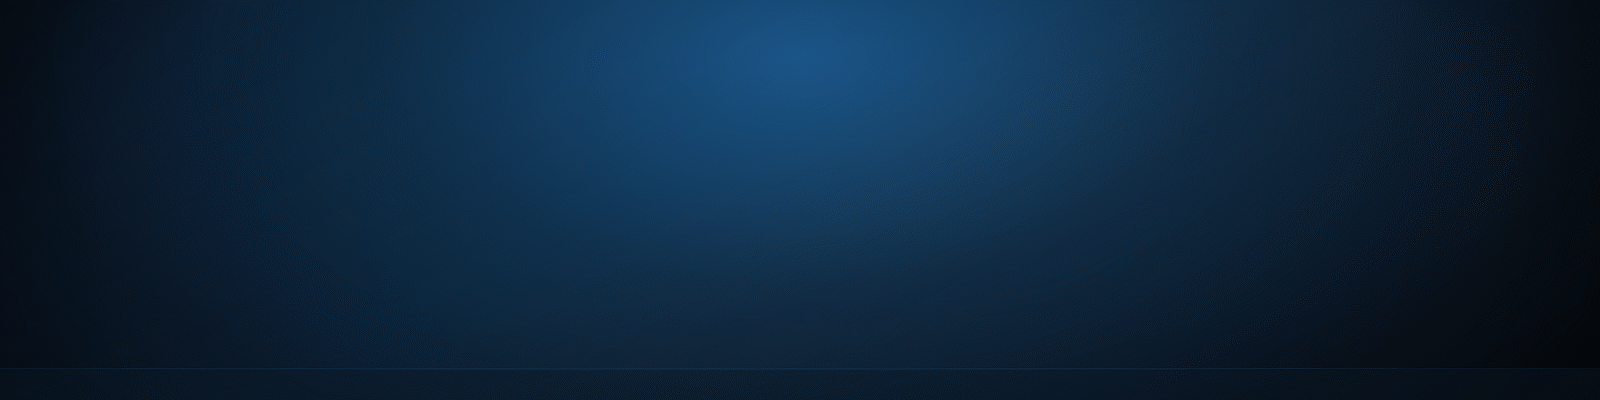
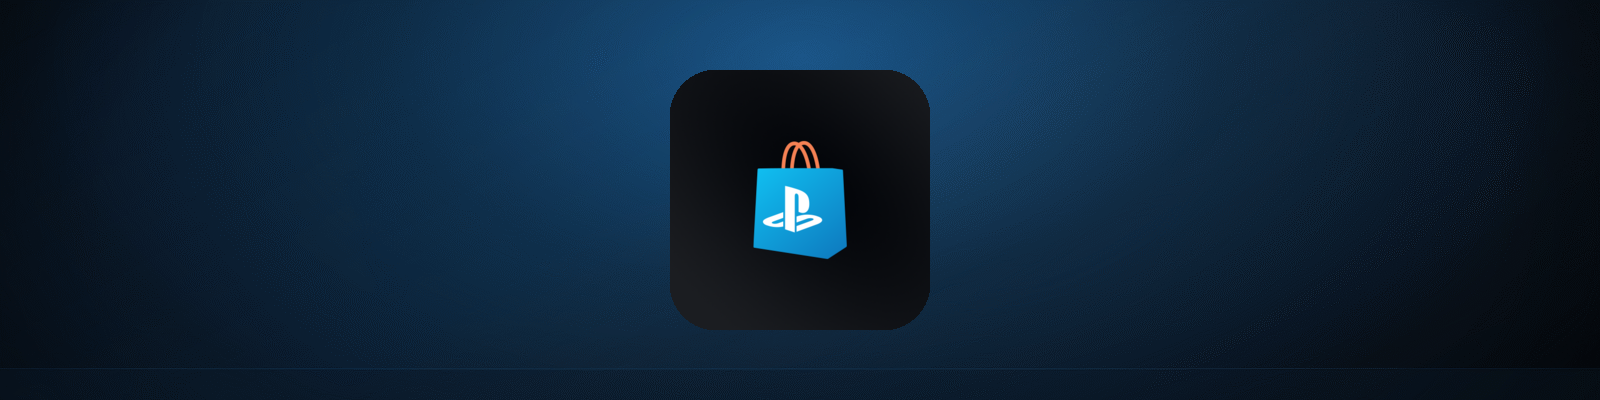
Edited README.md

Changed region(s): [[0.4062, 0.15, 0.5938, 0.84]]

diff --git a/tools/gen_brand_assets.py b/tools/gen_brand_assets.py
@@ -37,6 +37,7 @@ import os
 import shutil
 import subprocess
 import sys
+import tempfile
 
 ROOT = os.path.abspath(os.path.join(os.path.dirname(__file__), ".."))
 MASTER = os.path.join(ROOT, "assets", "home-photo.png")
@@ -239,6 +240,48 @@ def render_svg(svg, dest, width, height):
                                check=True, capture_output=True).stdout)
 
 
+def decorate_banner():
+    """Put the tile icon (rounded like an app tile) on the README banner."""
+    banner = os.path.join(ROOT, "docs", "img", "banner.png")
+    icon = master_path("icon")
+    if not (os.path.isfile(banner) and os.path.isfile(icon)):
+        return
+    size = 260
+    radius = int(size * 0.18)
+    if have_pillow():
+        from PIL import Image, ImageChops, ImageDraw
+
+        with Image.open(banner) as b, Image.open(icon) as ic:
+            base = b.convert("RGBA")
+            art = ic.convert("RGBA").resize((size, size), Image.LANCZOS)
+            mask = Image.new("L", (size, size), 0)
+            ImageDraw.Draw(mask).rounded_rectangle(
+                [0, 0, size - 1, size - 1], radius=radius, fill=255)
+            art.putalpha(ImageChops.multiply(art.getchannel("A"), mask))
+            base.alpha_composite(
+                art, ((base.width - size) // 2, (base.height - size) // 2))
+            base.convert("RGB").save(banner, "PNG", optimize=True)
+        return
+
+    tool = magick_command()
+    if not tool:
+        return
+    with tempfile.TemporaryDirectory(prefix="wkal-banner-") as tmp:
+        mask = os.path.join(tmp, "mask.png")
+        rounded = os.path.join(tmp, "icon.png")
+        subprocess.run(
+            [tool, "-size", f"{size}x{size}", "xc:none", "-fill", "white",
+             "-draw", f"roundrectangle 0,0,{size - 1},{size - 1},{radius},{radius}", mask],
+            check=True, capture_output=True)
+        subprocess.run(
+            [tool, icon + "[0]", "-resize", f"{size}x{size}", mask,
+             "-alpha", "off", "-compose", "CopyOpacity", "-composite", rounded],
+            check=True, capture_output=True)
+        subprocess.run(
+            [tool, banner, rounded, "-gravity", "center", "-composite", banner],
+            check=True, capture_output=True)
+
+
 def main(argv=None):
     parser = argparse.ArgumentParser(
         description=__doc__, formatter_class=argparse.RawDescriptionHelpFormatter)
@@ -284,6 +327,8 @@ def main(argv=None):
         else:
             dest = render_with_magick(src, rel_path, width, height)
         print(f"  {rel_path} ({width}x{height}, {os.path.getsize(dest)} bytes, {kind})")
+
+    decorate_banner()
 
     icon_src = master_path("icon")
     ico = ico_with_pillow(icon_src) if use_pillow else ico_with_magick(icon_src)

diff --git a/README.md b/README.md
@@ -1,8 +1,10 @@
-# PlayStation Store — local Store-tile jailbreak
+# PlayStation Store — Local Store Tile Jailbreak
 
 <p align="center">
   <img src="docs/img/banner.png" alt="PlayStation Store" width="720">
 </p>
+
+> ⚠ **AI-generated project.** Code, art and docs were produced with an AI assistant. Original source code is available <a href="https://github.com/X-F1REBALL-X/wk-store">here</a>.
 
 A native PS5 payload that turns the built-in **Store** tile into a local page.
 Open the tile and it jailbreaks on its own, sends `pldmgr.elf` to elfldr, then
@@ -13,15 +15,15 @@ console during install, so it keeps working offline.
   `http://127.0.0.1:1022/app/index.html`.
 - **Terminal UI.** The page is a black, append-only log — no buttons, no cards.
   Text appears as the jailbreak progresses.
-- **Zero interaction.** Relapse is forced, auto-start is on, and the page
+- **Zero interaction.** Relapse is used, auto-start is on, and the page
   returns to the home screen by itself when the payload is loaded.
-- **Two chains.** Wobkot (6.00 – 13.60) and Relapse (7.00 – 13.60) — this build
-  always runs Relapse.
-- **Offline.** The app and its chain are AppCache'd during install.
+- **Offline.** The app and its chain are cached during install.
 - **Reversible.** A separate Restore ELF puts the original PlayStation Store
   tile back.
-- **Yours.** Product name, artwork and ELF names come from `branding.json`, so
-  you never have to edit source code to make it your own.
+
+<p align="center">
+  <img src="docs/screenshots/terminal.png" alt="Terminal UI on the PS5" width="860">
+</p>
 
 > This project is a fork of
 > [wk-store](https://github.com/X-F1REBALL-X/wk-store) (GPLv3). All upstream
